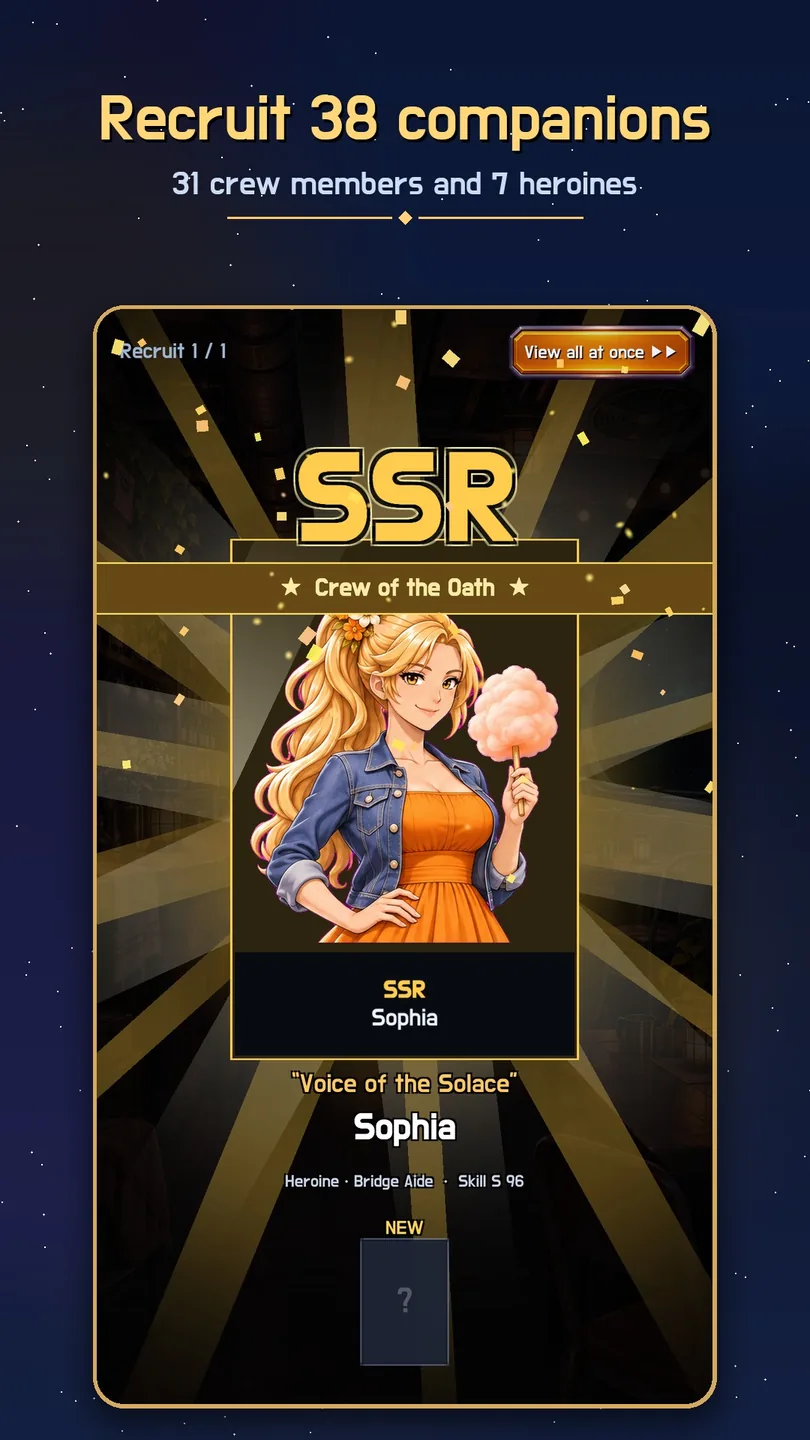
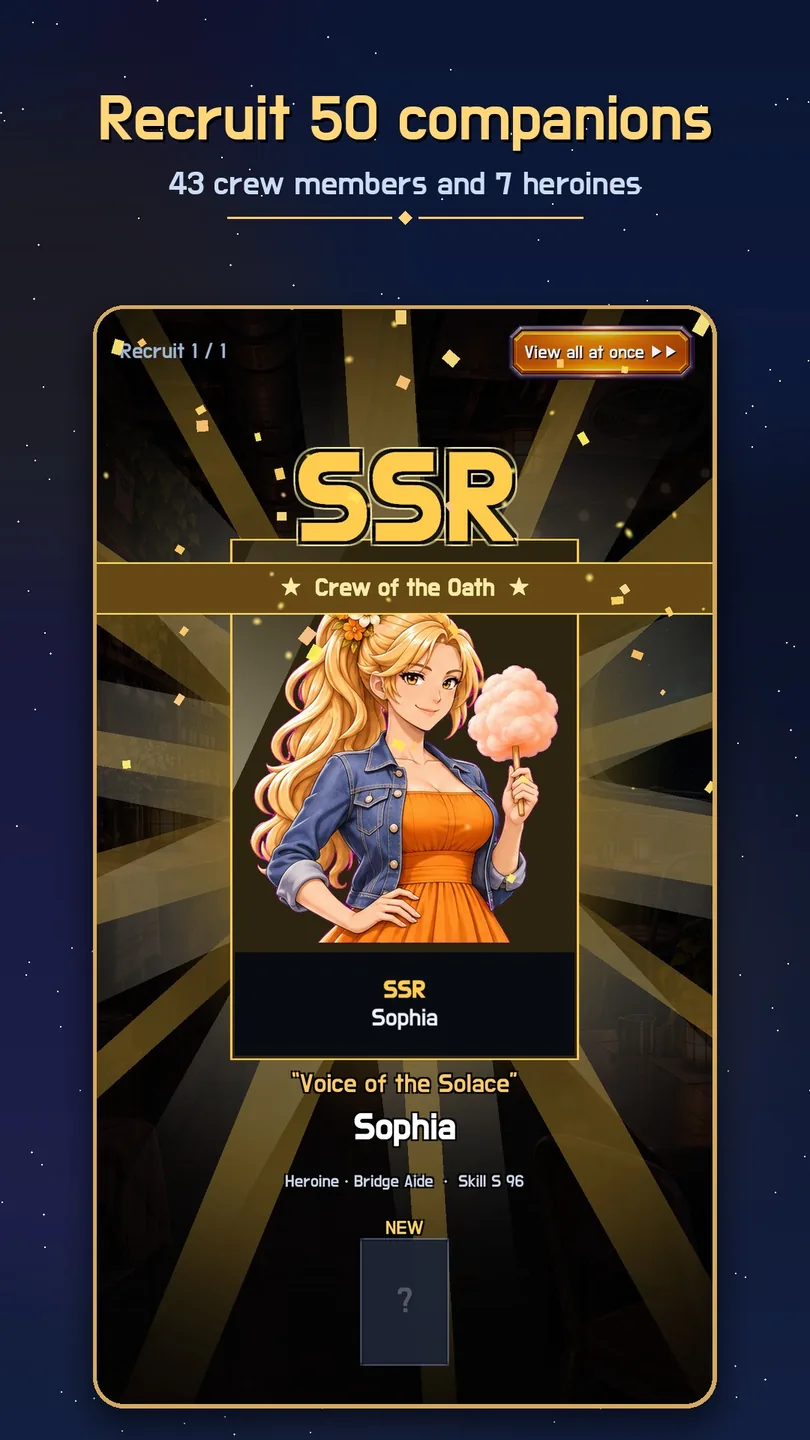
Exiles: 50 companions (43 crew + 7 heroines), cross-post seating note, new reveal screenshots
Claude-Session: https://claude.ai/code/session_01Rt15XjpkMisQxr4saGc18C

Changed region(s): [[0.1235, 0.0625, 0.8951, 0.1562]]

diff --git a/games/exiles/index.html b/games/exiles/index.html
@@ -20,26 +20,26 @@
 .exiles-page .bloom-icon{background:#0d1426;box-shadow:0 8px 25px #0008}
 </style></head><body class="bloom-page exiles-page four-languages multilingual-home" data-site-kind="game"><a class="skip" href="#main"><span data-locale="ko">본문으로 건너뛰기</span><span data-locale="en">Skip to content</span><span data-locale="ja">本文へスキップ</span><span data-locale="zh-TW">跳到主要內容</span></a><header class="site-header"><div class="wrap top"><a class="brand" data-site-to="home" href="/"><img src="/assets/ehny_horizontal_on_dark.png" alt="EHNY Games" width="170" height="50"></a><nav aria-label="Main navigation"><a class="games-nav" data-site-to="games" href="/#games" aria-label="게임"><svg aria-hidden="true" viewBox="0 0 24 24" width="21" height="21" fill="none" stroke="currentColor" stroke-width="1.7" stroke-linecap="round" stroke-linejoin="round"><path d="M7 6h10c3 0 5 4 5 8 0 4-3 5-6 1H8c-3 4-6 3-6-1 0-4 2-8 5-8Zm0 3v5m-2.5-2.5h5m6 0h.01m3-2h.01"/></svg><span data-site-label="games">게임</span></a><a class="support-nav" data-site-to="support" href="/support/" aria-label="지원"><svg aria-hidden="true" viewBox="0 0 24 24" width="21" height="21" fill="none" stroke="currentColor" stroke-width="1.7" stroke-linecap="round" stroke-linejoin="round"><path d="M4 13v-2a8 8 0 0 1 16 0v2m0 2v1a4 4 0 0 1-4 4h-3M4 12h3v6H5a2 2 0 0 1-2-2v-3a1 1 0 0 1 1-1Zm16 0h-3v6h2a2 2 0 0 0 2-2v-3a1 1 0 0 0-1-1Z"/></svg><span data-site-label="support">지원</span></a><span class="language-toggle four-language-links" role="group" aria-label="Language"><a class="language" data-site-lang="ko" data-lang="ko" href="/games/exiles/?lang=ko" lang="ko" hreflang="ko" aria-label="한국어" aria-current="page"><span class="lang-long">한국어</span><span class="lang-short" aria-hidden="true">KR</span></a><a class="language" data-site-lang="en" data-lang="en" href="/games/exiles/?lang=en" lang="en" hreflang="en" aria-label="English"><span class="lang-long">English</span><span class="lang-short" aria-hidden="true">EN</span></a><a class="language" data-site-lang="ja" data-lang="ja" href="/games/exiles/?lang=ja" lang="ja" hreflang="ja" aria-label="日本語"><span class="lang-long">日本語</span><span class="lang-short" aria-hidden="true">JP</span></a><a class="language" data-site-lang="zh-TW" data-lang="zh-TW" href="/games/exiles/?lang=zh-TW" lang="zh-Hant-TW" hreflang="zh-TW" aria-label="繁體中文"><span class="lang-long">繁體中文</span><span class="lang-short" aria-hidden="true">繁中</span></a></span></nav></div></header><main id="main"><div data-locale="ko" lang="ko"><div class="bloom-banner"><img src="/games/exiles/img/hero_ko.jpg" alt="별의 망명자들" width="1920" height="820" fetchpriority="high"></div><div class="wrap bloom-intro"><img class="bloom-icon" src="/games/exiles/img/icon.png" alt="별의 망명자들 아이콘" width="100" height="100"><div><span class="bloom-status">비공개 테스트 중 · 곧 출시</span><h1>별의 망명자들</h1><p class="bloom-subtitle">함대 디펜스 · 연애 시뮬레이션 · RPG · 1만 2천 명을 태운 마지막 이민선. 함대를 이끌고 추격을 뿌리쳐 새 별에 닿아라.</p></div></div>
 <section class="wrap bloom-section bloom-story"><div><p class="bloom-eyebrow">01 / THE STORY</p><h2>이야기</h2><p>고향을 잃은 1만 2천 명. 그들을 태운 배는 단 한 척, 이민모함 솔라스.</p><p>정화 함대는 이 배를 끝까지 쫓아옵니다. 함장인 당신은 모함과 함대를 이끌고, 시민들이 살아갈 새 별을 찾아 항해를 떠납니다.</p></div><figure><img src="/games/exiles/img/story_crew.jpg" alt="엔딩 직전 함교에 모인 일곱 히로인" width="720" height="1280" loading="lazy"></figure></section>
-<section class="wrap bloom-section"><p class="bloom-eyebrow">02 / HOW TO PLAY</p><h2>이런 게임이에요</h2><div class="bloom-feature-grid"><article class="bloom-feature"><p class="feature-heading"><span class="feature-symbol" aria-hidden="true">⚔</span><strong>쉴 틈 없는 함대 전투</strong></p><p>사방에서 몰려오는 적 함대를 모함의 무장과 전투기·구축함·기동 프레임 편대로 막아 내세요. 화면을 가득 메우는 미사일과 레이저 사이에서 주포 한 방이 전세를 뒤집습니다.</p></article><article class="bloom-feature"><p class="feature-heading"><span class="feature-symbol" aria-hidden="true">🗺</span><strong>고른 길이 다른 이야기가 됩니다</strong></p><p>9장, 200판이 넘는 전투. 우주 지도에서 길이 네 갈래로 갈라지고, 선택에 따라 만나는 사람도, 맞서는 적도, 이야기의 끝도 달라집니다.</p></article><article class="bloom-feature"><p class="feature-heading"><span class="feature-symbol" aria-hidden="true">👥</span><strong>함께 갈 사람 38명</strong></p><p>주점 &#x27;마지막 닻&#x27;에서 승무원 31명과 히로인 7명을 영입하세요. 같은 사람을 다시 만날수록 계약이 깊어지고(R → SR → SSR), 보직마다 배치한 사람에 따라 함대의 힘이 달라집니다.</p></article><article class="bloom-feature"><p class="feature-heading"><span class="feature-symbol" aria-hidden="true">💗</span><strong>함선 안에서 피어나는 이야기</strong></p><p>전투가 끝나면 함내를 걸어 보세요. 거주 돔, 수경 농장, 정비창… 누군가와 마주친 대화가 마음의 거리를 바꿉니다. 일곱 히로인과 숨은 만남, 휴양 행성의 짧은 휴식, 모아 보는 일러스트와 의상.</p></article><article class="bloom-feature"><p class="feature-heading"><span class="feature-symbol" aria-hidden="true">🎙</span><strong>목소리와 음악</strong></p><p>주요 장면은 한국어·영어·일본어·중국어 음성으로. 오케스트라 사운드트랙과 주제가 세 곡이 항해를 함께하고, 들은 곡은 추억 앨범에서 다시 들을 수 있어요.</p></article><article class="bloom-feature"><p class="feature-heading"><span class="feature-symbol" aria-hidden="true">🏆</span><strong>끝나지 않는 도전</strong></p><p>무한 항해(버틴 시간 순위), 옛 오락실 감성의 극악 슈팅 6판, 엔딩 뒤 키운 함대를 그대로 들고 가는 회차까지.</p></article></div></section>
+<section class="wrap bloom-section"><p class="bloom-eyebrow">02 / HOW TO PLAY</p><h2>이런 게임이에요</h2><div class="bloom-feature-grid"><article class="bloom-feature"><p class="feature-heading"><span class="feature-symbol" aria-hidden="true">⚔</span><strong>쉴 틈 없는 함대 전투</strong></p><p>사방에서 몰려오는 적 함대를 모함의 무장과 전투기·구축함·기동 프레임 편대로 막아 내세요. 화면을 가득 메우는 미사일과 레이저 사이에서 주포 한 방이 전세를 뒤집습니다.</p></article><article class="bloom-feature"><p class="feature-heading"><span class="feature-symbol" aria-hidden="true">🗺</span><strong>고른 길이 다른 이야기가 됩니다</strong></p><p>9장, 200판이 넘는 전투. 우주 지도에서 길이 네 갈래로 갈라지고, 선택에 따라 만나는 사람도, 맞서는 적도, 이야기의 끝도 달라집니다.</p></article><article class="bloom-feature"><p class="feature-heading"><span class="feature-symbol" aria-hidden="true">👥</span><strong>함께 갈 사람 50명</strong></p><p>주점 &#x27;마지막 닻&#x27;에서 승무원 43명과 히로인 7명을 영입하세요. 같은 사람을 다시 만날수록 계약이 깊어지고(R → SR → SSR), 누구를 어느 보직에 앉히느냐(다른 계열 보직도 가능)에 따라 함대의 힘이 달라집니다.</p></article><article class="bloom-feature"><p class="feature-heading"><span class="feature-symbol" aria-hidden="true">💗</span><strong>함선 안에서 피어나는 이야기</strong></p><p>전투가 끝나면 함내를 걸어 보세요. 거주 돔, 수경 농장, 정비창… 누군가와 마주친 대화가 마음의 거리를 바꿉니다. 일곱 히로인과 숨은 만남, 휴양 행성의 짧은 휴식, 모아 보는 일러스트와 의상.</p></article><article class="bloom-feature"><p class="feature-heading"><span class="feature-symbol" aria-hidden="true">🎙</span><strong>목소리와 음악</strong></p><p>주요 장면은 한국어·영어·일본어·중국어 음성으로. 오케스트라 사운드트랙과 주제가 세 곡이 항해를 함께하고, 들은 곡은 추억 앨범에서 다시 들을 수 있어요.</p></article><article class="bloom-feature"><p class="feature-heading"><span class="feature-symbol" aria-hidden="true">🏆</span><strong>끝나지 않는 도전</strong></p><p>무한 항해(버틴 시간 순위), 옛 오락실 감성의 극악 슈팅 6판, 엔딩 뒤 키운 함대를 그대로 들고 가는 회차까지.</p></article></div></section>
 <section class="wrap bloom-section"><div class="bloom-family"><p class="bloom-eyebrow">03 / FAIR PLAY</p><h2>편하게 즐길 수 있게</h2><ul><li>광고가 없어요.</li><li>회원가입 없이 바로 시작해요. 이름·이메일 같은 개인정보는 받지 않아요.</li><li>뽑기 확률은 게임 안 주점 → 확률 보기에서 언제든 확인할 수 있어요.</li><li>지면 다음 도전부터 적이 조금씩 약해지는 재도전 보정이 있어요.</li><li>15세 이용가</li></ul></div></section>
-<section class="wrap bloom-section"><p class="bloom-eyebrow">04 / GALLERY</p><h2>게임 갤러리</h2><p class="bloom-gallery-note">실제 게임 화면 · 홍보 문구를 더한 스토어 이미지(이 언어 화면).</p><div class="bloom-gallery promo-gallery"><figure><a href="/games/exiles/img/screenshot_ko_1.webp"><img src="/games/exiles/img/screenshot_ko_1.webp" alt="거대 기함과의 결전 — 주포 한 방으로 전세를 뒤집어라" loading="lazy" width="810" height="1440"></a></figure><figure><a href="/games/exiles/img/screenshot_ko_2.webp"><img src="/games/exiles/img/screenshot_ko_2.webp" alt="쉴 틈 없는 함대 전투 — 미사일과 레이저가 화면을 덮는다" loading="lazy" width="810" height="1440"></a></figure><figure><a href="/games/exiles/img/screenshot_ko_3.webp?v=38"><img src="/games/exiles/img/screenshot_ko_3.webp?v=38" alt="함께 갈 27명을 영입하라 — 승무원 20명 · 히로인 7명" loading="lazy" width="810" height="1440"></a></figure><figure><a href="/games/exiles/img/screenshot_ko_4.webp"><img src="/games/exiles/img/screenshot_ko_4.webp" alt="함선 안에서 피어나는 이야기 — 숨은 만남과 일곱 명의 히로인" loading="lazy" width="810" height="1440"></a></figure><figure><a href="/games/exiles/img/screenshot_ko_5.webp"><img src="/games/exiles/img/screenshot_ko_5.webp" alt="네 갈래로 갈라지는 항로 — 당신의 선택이 이야기를 바꾼다" loading="lazy" width="810" height="1440"></a></figure><figure><a href="/games/exiles/img/screenshot_ko_6.webp"><img src="/games/exiles/img/screenshot_ko_6.webp" alt="전투기 한 대로 적진 돌파 — 옛 오락실 감성의 슈팅 판" loading="lazy" width="810" height="1440"></a></figure><figure><a href="/games/exiles/img/screenshot_ko_7.webp"><img src="/games/exiles/img/screenshot_ko_7.webp" alt="불시착한 행성의 전술 전투 — 칸을 옮기며 함선을 지켜라" loading="lazy" width="810" height="1440"></a></figure><figure><a href="/games/exiles/img/screenshot_ko_8.webp"><img src="/games/exiles/img/screenshot_ko_8.webp" alt="1만 2천 명을 태운 마지막 이민선 — 함내를 키우고 시민을 지켜라" loading="lazy" width="810" height="1440"></a></figure></div></section>
+<section class="wrap bloom-section"><p class="bloom-eyebrow">04 / GALLERY</p><h2>게임 갤러리</h2><p class="bloom-gallery-note">실제 게임 화면 · 홍보 문구를 더한 스토어 이미지(이 언어 화면).</p><div class="bloom-gallery promo-gallery"><figure><a href="/games/exiles/img/screenshot_ko_1.webp"><img src="/games/exiles/img/screenshot_ko_1.webp" alt="거대 기함과의 결전 — 주포 한 방으로 전세를 뒤집어라" loading="lazy" width="810" height="1440"></a></figure><figure><a href="/games/exiles/img/screenshot_ko_2.webp"><img src="/games/exiles/img/screenshot_ko_2.webp" alt="쉴 틈 없는 함대 전투 — 미사일과 레이저가 화면을 덮는다" loading="lazy" width="810" height="1440"></a></figure><figure><a href="/games/exiles/img/screenshot_ko_3.webp?v=50"><img src="/games/exiles/img/screenshot_ko_3.webp?v=50" alt="함께 갈 50명을 영입하라 — 승무원 43명 · 히로인 7명" loading="lazy" width="810" height="1440"></a></figure><figure><a href="/games/exiles/img/screenshot_ko_4.webp"><img src="/games/exiles/img/screenshot_ko_4.webp" alt="함선 안에서 피어나는 이야기 — 숨은 만남과 일곱 명의 히로인" loading="lazy" width="810" height="1440"></a></figure><figure><a href="/games/exiles/img/screenshot_ko_5.webp"><img src="/games/exiles/img/screenshot_ko_5.webp" alt="네 갈래로 갈라지는 항로 — 당신의 선택이 이야기를 바꾼다" loading="lazy" width="810" height="1440"></a></figure><figure><a href="/games/exiles/img/screenshot_ko_6.webp"><img src="/games/exiles/img/screenshot_ko_6.webp" alt="전투기 한 대로 적진 돌파 — 옛 오락실 감성의 슈팅 판" loading="lazy" width="810" height="1440"></a></figure><figure><a href="/games/exiles/img/screenshot_ko_7.webp"><img src="/games/exiles/img/screenshot_ko_7.webp" alt="불시착한 행성의 전술 전투 — 칸을 옮기며 함선을 지켜라" loading="lazy" width="810" height="1440"></a></figure><figure><a href="/games/exiles/img/screenshot_ko_8.webp"><img src="/games/exiles/img/screenshot_ko_8.webp" alt="1만 2천 명을 태운 마지막 이민선 — 함내를 키우고 시민을 지켜라" loading="lazy" width="810" height="1440"></a></figure></div></section>
 <section class="wrap bloom-section"><div class="bloom-cta"><img class="bloom-icon" src="/games/exiles/img/icon.png" alt="별의 망명자들 아이콘" width="100" height="100" loading="lazy" style="margin:0 auto 22px"><span class="bloom-status">비공개 테스트 중 · 곧 출시</span><h2 style="margin-top:20px">별의 망명자들</h2><button class="bloom-play" type="button" disabled aria-disabled="true" data-play-url=""><svg width="25" height="28" viewBox="0 0 25 28" aria-hidden="true" fill="currentColor"><path d="M2 1 24 14 2 27Z"/></svg><span><small>곧 출시</small>Google Play</span></button><p class="info">Android (Google Play) · 한국어 / English / 日本語 / 繁體中文</p><p class="info">무료로 즐기기 · 앱 내 구매 있음(퀘이사·패키지)</p><div class="bloom-links"><a href="/privacy/exiles/?lang=ko">개인정보처리방침</a><a href="mailto:contact@ehnygames.com">문의 · contact@ehnygames.com</a></div></div></section></div>
 <div data-locale="en" lang="en"><div class="bloom-banner"><img src="/games/exiles/img/hero_en.jpg" alt="Twelve Thousand Lights" width="1920" height="820" fetchpriority="high"></div><div class="wrap bloom-intro"><img class="bloom-icon" src="/games/exiles/img/icon.png" alt="Twelve Thousand Lights icon" width="100" height="100"><div><span class="bloom-status">In closed testing · Coming soon</span><h1>Twelve Thousand Lights</h1><p class="bloom-subtitle">Fleet defense · Romance sim · RPG · 12,000 refugees. One last ship. Lead the fleet, outrun the purge, find a home.</p></div></div>
 <section class="wrap bloom-section bloom-story"><div><p class="bloom-eyebrow">01 / THE STORY</p><h2>The Story</h2><p>Twelve thousand people lost their home. Only one ship carries them now: the emigrant carrier Solace.</p><p>The Purification Fleet will chase it to the very end. As captain, you lead the carrier and its fleet on a voyage to find a new world where they can live.</p></div><figure><img src="/games/exiles/img/story_crew.jpg" alt="Seven heroines gathered on the bridge before the ending" width="720" height="1280" loading="lazy"></figure></section>
-<section class="wrap bloom-section"><p class="bloom-eyebrow">02 / HOW TO PLAY</p><h2>What You&#x27;ll Do</h2><div class="bloom-feature-grid"><article class="bloom-feature"><p class="feature-heading"><span class="feature-symbol" aria-hidden="true">⚔</span><strong>Non-stop fleet battles</strong></p><p>Hold back enemy fleets pouring in from every side with your carrier&#x27;s weapons and squadrons of fighters, destroyers and combat frames. Amid screens full of missiles and lasers, one main-cannon shot can turn the tide.</p></article><article class="bloom-feature"><p class="feature-heading"><span class="feature-symbol" aria-hidden="true">🗺</span><strong>Your path becomes your story</strong></p><p>Nine chapters and more than 200 battles. The route splits four ways on the star map, and your choices change who you meet, who you fight, and how the story ends.</p></article><article class="bloom-feature"><p class="feature-heading"><span class="feature-symbol" aria-hidden="true">👥</span><strong>38 companions</strong></p><p>Recruit 31 crew members and 7 heroines at the Last Anchor tavern. Meet the same person again to deepen your bond (R → SR → SSR) — and who you assign to each post visibly changes your fleet.</p></article><article class="bloom-feature"><p class="feature-heading"><span class="feature-symbol" aria-hidden="true">💗</span><strong>Stories that bloom aboard</strong></p><p>After each battle, walk the ship — the habitat dome, the hydroponic farm, the hangar. A chance conversation changes how close you become. Seven heroines, hidden encounters, resort-planet breaks, and illustrations and outfits to collect.</p></article><article class="bloom-feature"><p class="feature-heading"><span class="feature-symbol" aria-hidden="true">🎙</span><strong>Voices and music</strong></p><p>Key scenes are voiced in Korean, English, Japanese and Chinese. An orchestral soundtrack and three theme songs follow your voyage, and tracks you&#x27;ve heard can be replayed in the Memory Album.</p></article><article class="bloom-feature"><p class="feature-heading"><span class="feature-symbol" aria-hidden="true">🏆</span><strong>Challenges that never end</strong></p><p>Endless Voyage leaderboards, six brutal old-school arcade shooter stages, and New Game+ that carries your fleet into stronger battles.</p></article></div></section>
+<section class="wrap bloom-section"><p class="bloom-eyebrow">02 / HOW TO PLAY</p><h2>What You&#x27;ll Do</h2><div class="bloom-feature-grid"><article class="bloom-feature"><p class="feature-heading"><span class="feature-symbol" aria-hidden="true">⚔</span><strong>Non-stop fleet battles</strong></p><p>Hold back enemy fleets pouring in from every side with your carrier&#x27;s weapons and squadrons of fighters, destroyers and combat frames. Amid screens full of missiles and lasers, one main-cannon shot can turn the tide.</p></article><article class="bloom-feature"><p class="feature-heading"><span class="feature-symbol" aria-hidden="true">🗺</span><strong>Your path becomes your story</strong></p><p>Nine chapters and more than 200 battles. The route splits four ways on the star map, and your choices change who you meet, who you fight, and how the story ends.</p></article><article class="bloom-feature"><p class="feature-heading"><span class="feature-symbol" aria-hidden="true">👥</span><strong>50 companions</strong></p><p>Recruit 43 crew members and 7 heroines at the Last Anchor tavern. Meet the same person again to deepen your bond (R → SR → SSR) — and who you assign to each post — even outside their specialty — visibly changes your fleet.</p></article><article class="bloom-feature"><p class="feature-heading"><span class="feature-symbol" aria-hidden="true">💗</span><strong>Stories that bloom aboard</strong></p><p>After each battle, walk the ship — the habitat dome, the hydroponic farm, the hangar. A chance conversation changes how close you become. Seven heroines, hidden encounters, resort-planet breaks, and illustrations and outfits to collect.</p></article><article class="bloom-feature"><p class="feature-heading"><span class="feature-symbol" aria-hidden="true">🎙</span><strong>Voices and music</strong></p><p>Key scenes are voiced in Korean, English, Japanese and Chinese. An orchestral soundtrack and three theme songs follow your voyage, and tracks you&#x27;ve heard can be replayed in the Memory Album.</p></article><article class="bloom-feature"><p class="feature-heading"><span class="feature-symbol" aria-hidden="true">🏆</span><strong>Challenges that never end</strong></p><p>Endless Voyage leaderboards, six brutal old-school arcade shooter stages, and New Game+ that carries your fleet into stronger battles.</p></article></div></section>
 <section class="wrap bloom-section"><div class="bloom-family"><p class="bloom-eyebrow">03 / FAIR PLAY</p><h2>Play your way</h2><ul><li>No ads.</li><li>No sign-up — start right away. We never ask for your name or email.</li><li>Recruitment rates are always shown in-game at the Tavern → View Rates.</li><li>Lose a stage and the next attempt gets a little easier (retry assist).</li><li>Rated for ages 15+ in Korea.</li></ul></div></section>
-<section class="wrap bloom-section"><p class="bloom-eyebrow">04 / GALLERY</p><h2>Game Gallery</h2><p class="bloom-gallery-note">Actual gameplay · Store images with promotional captions (English interface).</p><div class="bloom-gallery promo-gallery"><figure><a href="/games/exiles/img/screenshot_en_1.webp"><img src="/games/exiles/img/screenshot_en_1.webp" alt="Face the giant flagship — One main-cannon shot can turn the tide" loading="lazy" width="810" height="1440"></a></figure><figure><a href="/games/exiles/img/screenshot_en_2.webp"><img src="/games/exiles/img/screenshot_en_2.webp" alt="Non-stop fleet battles — Missiles and lasers fill the sky" loading="lazy" width="810" height="1440"></a></figure><figure><a href="/games/exiles/img/screenshot_en_3.webp?v=38"><img src="/games/exiles/img/screenshot_en_3.webp?v=38" alt="Recruit 27 companions — 20 crew members and 7 heroines" loading="lazy" width="810" height="1440"></a></figure><figure><a href="/games/exiles/img/screenshot_en_4.webp"><img src="/games/exiles/img/screenshot_en_4.webp" alt="Stories that bloom aboard — Hidden encounters with seven heroines" loading="lazy" width="810" height="1440"></a></figure><figure><a href="/games/exiles/img/screenshot_en_5.webp"><img src="/games/exiles/img/screenshot_en_5.webp" alt="A route that splits four ways — Your choices change the story" loading="lazy" width="810" height="1440"></a></figure><figure><a href="/games/exiles/img/screenshot_en_6.webp"><img src="/games/exiles/img/screenshot_en_6.webp" alt="Break through in a lone fighter — Old-school arcade shooter stages" loading="lazy" width="810" height="1440"></a></figure><figure><a href="/games/exiles/img/screenshot_en_7.webp"><img src="/games/exiles/img/screenshot_en_7.webp" alt="Tactical battles on a crashed world — Move square by square to protect the ship" loading="lazy" width="810" height="1440"></a></figure><figure><a href="/games/exiles/img/screenshot_en_8.webp"><img src="/games/exiles/img/screenshot_en_8.webp" alt="One last ship, 12,000 lives — Grow the ship and protect its people" loading="lazy" width="810" height="1440"></a></figure></div></section>
+<section class="wrap bloom-section"><p class="bloom-eyebrow">04 / GALLERY</p><h2>Game Gallery</h2><p class="bloom-gallery-note">Actual gameplay · Store images with promotional captions (English interface).</p><div class="bloom-gallery promo-gallery"><figure><a href="/games/exiles/img/screenshot_en_1.webp"><img src="/games/exiles/img/screenshot_en_1.webp" alt="Face the giant flagship — One main-cannon shot can turn the tide" loading="lazy" width="810" height="1440"></a></figure><figure><a href="/games/exiles/img/screenshot_en_2.webp"><img src="/games/exiles/img/screenshot_en_2.webp" alt="Non-stop fleet battles — Missiles and lasers fill the sky" loading="lazy" width="810" height="1440"></a></figure><figure><a href="/games/exiles/img/screenshot_en_3.webp?v=50"><img src="/games/exiles/img/screenshot_en_3.webp?v=50" alt="Recruit 50 companions — 43 crew members and 7 heroines" loading="lazy" width="810" height="1440"></a></figure><figure><a href="/games/exiles/img/screenshot_en_4.webp"><img src="/games/exiles/img/screenshot_en_4.webp" alt="Stories that bloom aboard — Hidden encounters with seven heroines" loading="lazy" width="810" height="1440"></a></figure><figure><a href="/games/exiles/img/screenshot_en_5.webp"><img src="/games/exiles/img/screenshot_en_5.webp" alt="A route that splits four ways — Your choices change the story" loading="lazy" width="810" height="1440"></a></figure><figure><a href="/games/exiles/img/screenshot_en_6.webp"><img src="/games/exiles/img/screenshot_en_6.webp" alt="Break through in a lone fighter — Old-school arcade shooter stages" loading="lazy" width="810" height="1440"></a></figure><figure><a href="/games/exiles/img/screenshot_en_7.webp"><img src="/games/exiles/img/screenshot_en_7.webp" alt="Tactical battles on a crashed world — Move square by square to protect the ship" loading="lazy" width="810" height="1440"></a></figure><figure><a href="/games/exiles/img/screenshot_en_8.webp"><img src="/games/exiles/img/screenshot_en_8.webp" alt="One last ship, 12,000 lives — Grow the ship and protect its people" loading="lazy" width="810" height="1440"></a></figure></div></section>
 <section class="wrap bloom-section"><div class="bloom-cta"><img class="bloom-icon" src="/games/exiles/img/icon.png" alt="Twelve Thousand Lights icon" width="100" height="100" loading="lazy" style="margin:0 auto 22px"><span class="bloom-status">In closed testing · Coming soon</span><h2 style="margin-top:20px">Twelve Thousand Lights</h2><button class="bloom-play" type="button" disabled aria-disabled="true" data-play-url=""><svg width="25" height="28" viewBox="0 0 25 28" aria-hidden="true" fill="currentColor"><path d="M2 1 24 14 2 27Z"/></svg><span><small>Coming soon</small>Google Play</span></button><p class="info">Android (Google Play) · 한국어 / English / 日本語 / 繁體中文</p><p class="info">Free to play · In-app purchases (Quasars, packs)</p><div class="bloom-links"><a href="/privacy/exiles/?lang=en">Privacy Policy</a><a href="mailto:contact@ehnygames.com">Contact · contact@ehnygames.com</a></div></div></section></div>
 <div data-locale="ja" lang="ja"><div class="bloom-banner"><img src="/games/exiles/img/hero_ja.jpg" alt="星の亡命者たち" width="1920" height="820" fetchpriority="high"></div><div class="wrap bloom-intro"><img class="bloom-icon" src="/games/exiles/img/icon.png" alt="星の亡命者たちのアイコン" width="100" height="100"><div><span class="bloom-status">クローズドテスト中・まもなく配信</span><h1>星の亡命者たち</h1><p class="bloom-subtitle">艦隊ディフェンス・恋愛シミュレーション・RPG · 1万2千人を乗せた最後の移民船。艦隊を率いて追撃を振り切り、新たな星を目指せ。</p></div></div>
 <section class="wrap bloom-section bloom-story"><div><p class="bloom-eyebrow">01 / THE STORY</p><h2>ストーリー</h2><p>故郷を失った1万2千人。彼らを乗せた船は、たった一隻 ── 移民母艦ソラス。</p><p>浄化艦隊はこの船をどこまでも追ってきます。艦長であるあなたは母艦と艦隊を率い、市民が暮らせる新たな星を探す航海に出ます。</p></div><figure><img src="/games/exiles/img/story_crew.jpg" alt="エンディング直前、ブリッジに集まった7人のヒロイン" width="720" height="1280" loading="lazy"></figure></section>
-<section class="wrap bloom-section"><p class="bloom-eyebrow">02 / HOW TO PLAY</p><h2>こんなゲームです</h2><div class="bloom-feature-grid"><article class="bloom-feature"><p class="feature-heading"><span class="feature-symbol" aria-hidden="true">⚔</span><strong>息つく暇もない艦隊戦</strong></p><p>四方から押し寄せる敵艦隊を、母艦の武装と戦闘機・駆逐艦・機動フレーム編隊で食い止めましょう。画面を埋め尽くすミサイルとレーザーの中、主砲の一撃が戦況をひっくり返します。</p></article><article class="bloom-feature"><p class="feature-heading"><span class="feature-symbol" aria-hidden="true">🗺</span><strong>選んだ道が、違う物語になる</strong></p><p>全9章、200を超える戦闘。宇宙マップで航路は四つに分かれ、選択によって出会う人も、立ち向かう敵も、物語の結末も変わります。</p></article><article class="bloom-feature"><p class="feature-heading"><span class="feature-symbol" aria-hidden="true">👥</span><strong>共に行く38人</strong></p><p>酒場「最後の錨」で乗組員31人とヒロイン7人をスカウト。同じ人と出会うほど契約が深まり(R → SR → SSR)、配属した人によって艦隊の力が変わります。</p></article><article class="bloom-feature"><p class="feature-heading"><span class="feature-symbol" aria-hidden="true">💗</span><strong>艦内で芽生える物語</strong></p><p>戦いの後は艦内を歩いてみましょう。居住ドーム、水耕農場、整備工場…ふとした会話が心の距離を変えます。7人のヒロイン、隠れた出会い、リゾート惑星でのひととき、集めるイラストと衣装。</p></article><article class="bloom-feature"><p class="feature-heading"><span class="feature-symbol" aria-hidden="true">🎙</span><strong>ボイスと音楽</strong></p><p>主要シーンは韓国語・英語・日本語・中国語ボイス。オーケストラのサウンドトラックと3曲の主題歌が航海を彩り、聴いた曲は思い出アルバムで聴き直せます。</p></article><article class="bloom-feature"><p class="feature-heading"><span class="feature-symbol" aria-hidden="true">🏆</span><strong>終わらない挑戦</strong></p><p>無限航海のランキング、懐かしのアーケード風・超高難度シューティング全6ステージ、育てた艦隊で挑む周回プレイ。</p></article></div></section>
+<section class="wrap bloom-section"><p class="bloom-eyebrow">02 / HOW TO PLAY</p><h2>こんなゲームです</h2><div class="bloom-feature-grid"><article class="bloom-feature"><p class="feature-heading"><span class="feature-symbol" aria-hidden="true">⚔</span><strong>息つく暇もない艦隊戦</strong></p><p>四方から押し寄せる敵艦隊を、母艦の武装と戦闘機・駆逐艦・機動フレーム編隊で食い止めましょう。画面を埋め尽くすミサイルとレーザーの中、主砲の一撃が戦況をひっくり返します。</p></article><article class="bloom-feature"><p class="feature-heading"><span class="feature-symbol" aria-hidden="true">🗺</span><strong>選んだ道が、違う物語になる</strong></p><p>全9章、200を超える戦闘。宇宙マップで航路は四つに分かれ、選択によって出会う人も、立ち向かう敵も、物語の結末も変わります。</p></article><article class="bloom-feature"><p class="feature-heading"><span class="feature-symbol" aria-hidden="true">👥</span><strong>共に行く50人</strong></p><p>酒場「最後の錨」で乗組員43人とヒロイン7人をスカウト。同じ人と出会うほど契約が深まり(R → SR → SSR)、誰をどの部署に就けるか(専門外の部署も可)で艦隊の力が変わります。</p></article><article class="bloom-feature"><p class="feature-heading"><span class="feature-symbol" aria-hidden="true">💗</span><strong>艦内で芽生える物語</strong></p><p>戦いの後は艦内を歩いてみましょう。居住ドーム、水耕農場、整備工場…ふとした会話が心の距離を変えます。7人のヒロイン、隠れた出会い、リゾート惑星でのひととき、集めるイラストと衣装。</p></article><article class="bloom-feature"><p class="feature-heading"><span class="feature-symbol" aria-hidden="true">🎙</span><strong>ボイスと音楽</strong></p><p>主要シーンは韓国語・英語・日本語・中国語ボイス。オーケストラのサウンドトラックと3曲の主題歌が航海を彩り、聴いた曲は思い出アルバムで聴き直せます。</p></article><article class="bloom-feature"><p class="feature-heading"><span class="feature-symbol" aria-hidden="true">🏆</span><strong>終わらない挑戦</strong></p><p>無限航海のランキング、懐かしのアーケード風・超高難度シューティング全6ステージ、育てた艦隊で挑む周回プレイ。</p></article></div></section>
 <section class="wrap bloom-section"><div class="bloom-family"><p class="bloom-eyebrow">03 / FAIR PLAY</p><h2>安心して遊べるように</h2><ul><li>広告はありません。</li><li>会員登録なしですぐに始められます。名前やメールアドレスはお聞きしません。</li><li>スカウトの確率はゲーム内の酒場 → 確率を見るでいつでも確認できます。</li><li>負けると次の挑戦から敵が少しずつ弱くなる再挑戦補正があります。</li><li>韓国の年齢区分は15歳以上です。</li></ul></div></section>
-<section class="wrap bloom-section"><p class="bloom-eyebrow">04 / GALLERY</p><h2>ゲームギャラリー</h2><p class="bloom-gallery-note">実際のゲーム画面・紹介文を添えたストア画像(日本語画面)。</p><div class="bloom-gallery promo-gallery"><figure><a href="/games/exiles/img/screenshot_ja_1.webp"><img src="/games/exiles/img/screenshot_ja_1.webp" alt="巨大旗艦との決戦 — 主砲の一撃で戦況を覆せ" loading="lazy" width="810" height="1440"></a></figure><figure><a href="/games/exiles/img/screenshot_ja_2.webp"><img src="/games/exiles/img/screenshot_ja_2.webp" alt="息つく暇もない艦隊戦 — ミサイルとレーザーが空を埋め尽くす" loading="lazy" width="810" height="1440"></a></figure><figure><a href="/games/exiles/img/screenshot_ja_3.webp?v=38"><img src="/games/exiles/img/screenshot_ja_3.webp?v=38" alt="共に行く27人をスカウト — 乗組員20人・ヒロイン7人" loading="lazy" width="810" height="1440"></a></figure><figure><a href="/games/exiles/img/screenshot_ja_4.webp"><img src="/games/exiles/img/screenshot_ja_4.webp" alt="艦内で芽生える物語 — 隠れた出会いと7人のヒロイン" loading="lazy" width="810" height="1440"></a></figure><figure><a href="/games/exiles/img/screenshot_ja_5.webp"><img src="/games/exiles/img/screenshot_ja_5.webp" alt="四つに分かれる航路 — あなたの選択が物語を変える" loading="lazy" width="810" height="1440"></a></figure><figure><a href="/games/exiles/img/screenshot_ja_6.webp"><img src="/games/exiles/img/screenshot_ja_6.webp" alt="戦闘機一機で敵陣突破 — 懐かしのアーケード風シューティング" loading="lazy" width="810" height="1440"></a></figure><figure><a href="/games/exiles/img/screenshot_ja_7.webp"><img src="/games/exiles/img/screenshot_ja_7.webp" alt="不時着した惑星での戦術バトル — マスを進めて艦を守れ" loading="lazy" width="810" height="1440"></a></figure><figure><a href="/games/exiles/img/screenshot_ja_8.webp"><img src="/games/exiles/img/screenshot_ja_8.webp" alt="1万2千人を乗せた最後の移民船 — 艦を育て、市民を守れ" loading="lazy" width="810" height="1440"></a></figure></div></section>
+<section class="wrap bloom-section"><p class="bloom-eyebrow">04 / GALLERY</p><h2>ゲームギャラリー</h2><p class="bloom-gallery-note">実際のゲーム画面・紹介文を添えたストア画像(日本語画面)。</p><div class="bloom-gallery promo-gallery"><figure><a href="/games/exiles/img/screenshot_ja_1.webp"><img src="/games/exiles/img/screenshot_ja_1.webp" alt="巨大旗艦との決戦 — 主砲の一撃で戦況を覆せ" loading="lazy" width="810" height="1440"></a></figure><figure><a href="/games/exiles/img/screenshot_ja_2.webp"><img src="/games/exiles/img/screenshot_ja_2.webp" alt="息つく暇もない艦隊戦 — ミサイルとレーザーが空を埋め尽くす" loading="lazy" width="810" height="1440"></a></figure><figure><a href="/games/exiles/img/screenshot_ja_3.webp?v=50"><img src="/games/exiles/img/screenshot_ja_3.webp?v=50" alt="共に行く50人をスカウト — 乗組員43人・ヒロイン7人" loading="lazy" width="810" height="1440"></a></figure><figure><a href="/games/exiles/img/screenshot_ja_4.webp"><img src="/games/exiles/img/screenshot_ja_4.webp" alt="艦内で芽生える物語 — 隠れた出会いと7人のヒロイン" loading="lazy" width="810" height="1440"></a></figure><figure><a href="/games/exiles/img/screenshot_ja_5.webp"><img src="/games/exiles/img/screenshot_ja_5.webp" alt="四つに分かれる航路 — あなたの選択が物語を変える" loading="lazy" width="810" height="1440"></a></figure><figure><a href="/games/exiles/img/screenshot_ja_6.webp"><img src="/games/exiles/img/screenshot_ja_6.webp" alt="戦闘機一機で敵陣突破 — 懐かしのアーケード風シューティング" loading="lazy" width="810" height="1440"></a></figure><figure><a href="/games/exiles/img/screenshot_ja_7.webp"><img src="/games/exiles/img/screenshot_ja_7.webp" alt="不時着した惑星での戦術バトル — マスを進めて艦を守れ" loading="lazy" width="810" height="1440"></a></figure><figure><a href="/games/exiles/img/screenshot_ja_8.webp"><img src="/games/exiles/img/screenshot_ja_8.webp" alt="1万2千人を乗せた最後の移民船 — 艦を育て、市民を守れ" loading="lazy" width="810" height="1440"></a></figure></div></section>
 <section class="wrap bloom-section"><div class="bloom-cta"><img class="bloom-icon" src="/games/exiles/img/icon.png" alt="星の亡命者たちのアイコン" width="100" height="100" loading="lazy" style="margin:0 auto 22px"><span class="bloom-status">クローズドテスト中・まもなく配信</span><h2 style="margin-top:20px">星の亡命者たち</h2><button class="bloom-play" type="button" disabled aria-disabled="true" data-play-url=""><svg width="25" height="28" viewBox="0 0 25 28" aria-hidden="true" fill="currentColor"><path d="M2 1 24 14 2 27Z"/></svg><span><small>まもなく配信</small>Google Play</span></button><p class="info">Android (Google Play) · 한국어 / English / 日本語 / 繁體中文</p><p class="info">基本プレイ無料・アプリ内課金あり(クエーサー・パック)</p><div class="bloom-links"><a href="/privacy/exiles/?lang=ja">プライバシーポリシー</a><a href="mailto:contact@ehnygames.com">お問い合わせ · contact@ehnygames.com</a></div></div></section></div>
 <div data-locale="zh-TW" lang="zh-Hant-TW"><div class="bloom-banner"><img src="/games/exiles/img/hero_zh.jpg" alt="星之流亡者" width="1920" height="820" fetchpriority="high"></div><div class="wrap bloom-intro"><img class="bloom-icon" src="/games/exiles/img/icon.png" alt="星之流亡者圖示" width="100" height="100"><div><span class="bloom-status">封閉測試中・即將推出</span><h1>星之流亡者</h1><p class="bloom-subtitle">艦隊防禦・戀愛模擬・RPG · 載著一萬兩千人的最後一艘移民船。率領艦隊甩開追擊，抵達新的星球。</p></div></div>
 <section class="wrap bloom-section bloom-story"><div><p class="bloom-eyebrow">01 / THE STORY</p><h2>故事</h2><p>失去家園的一萬兩千人，載著他們的船只有一艘——移民母艦索拉斯號。</p><p>淨化艦隊會一路追到底。身為艦長的你，將率領母艦與艦隊，啟程尋找市民能夠生活的新星球。</p></div><figure><img src="/games/exiles/img/story_crew.jpg" alt="結局前聚集在艦橋上的七位女主角" width="720" height="1280" loading="lazy"></figure></section>
-<section class="wrap bloom-section"><p class="bloom-eyebrow">02 / HOW TO PLAY</p><h2>遊戲特色</h2><div class="bloom-feature-grid"><article class="bloom-feature"><p class="feature-heading"><span class="feature-symbol" aria-hidden="true">⚔</span><strong>毫無喘息的艦隊戰</strong></p><p>用母艦的武裝，以及戰鬥機、驅逐艦、機動骨架編隊，擋下從四面八方湧來的敵方艦隊。在滿是飛彈與雷射的畫面中，主砲一擊就能扭轉戰局。</p></article><article class="bloom-feature"><p class="feature-heading"><span class="feature-symbol" aria-hidden="true">🗺</span><strong>選擇的路，成為不同的故事</strong></p><p>全9章、超過200場戰鬥。星圖上的航線一分為四，你的選擇將改變遇見的人、面對的敵人，以及故事的結局。</p></article><article class="bloom-feature"><p class="feature-heading"><span class="feature-symbol" aria-hidden="true">👥</span><strong>同行的38位夥伴</strong></p><p>在酒館「最後之錨」招募31名船員與7位女主角。與同一個人相遇越多，契約越深（R → SR → SSR），各職位配置的人選會讓艦隊實力明顯不同。</p></article><article class="bloom-feature"><p class="feature-heading"><span class="feature-symbol" aria-hidden="true">💗</span><strong>在艦內萌芽的故事</strong></p><p>戰鬥結束後到艦內走走吧。居住穹頂、水耕農場、整備廠……一段偶然的對話會改變彼此的距離。七位女主角、隱藏的相遇、度假行星的短暫休息，以及可收集的插圖與服裝。</p></article><article class="bloom-feature"><p class="feature-heading"><span class="feature-symbol" aria-hidden="true">🎙</span><strong>語音與音樂</strong></p><p>主要劇情提供韓語、英語、日語、中文語音。管弦樂原聲帶與三首主題曲陪伴航程，聽過的曲子可在回憶相簿中再次聆聽。</p></article><article class="bloom-feature"><p class="feature-heading"><span class="feature-symbol" aria-hidden="true">🏆</span><strong>永不結束的挑戰</strong></p><p>無限航行排行榜、懷舊街機風格的超高難度射擊6關，以及帶著培養好的艦隊挑戰多周目。</p></article></div></section>
+<section class="wrap bloom-section"><p class="bloom-eyebrow">02 / HOW TO PLAY</p><h2>遊戲特色</h2><div class="bloom-feature-grid"><article class="bloom-feature"><p class="feature-heading"><span class="feature-symbol" aria-hidden="true">⚔</span><strong>毫無喘息的艦隊戰</strong></p><p>用母艦的武裝，以及戰鬥機、驅逐艦、機動骨架編隊，擋下從四面八方湧來的敵方艦隊。在滿是飛彈與雷射的畫面中，主砲一擊就能扭轉戰局。</p></article><article class="bloom-feature"><p class="feature-heading"><span class="feature-symbol" aria-hidden="true">🗺</span><strong>選擇的路，成為不同的故事</strong></p><p>全9章、超過200場戰鬥。星圖上的航線一分為四，你的選擇將改變遇見的人、面對的敵人，以及故事的結局。</p></article><article class="bloom-feature"><p class="feature-heading"><span class="feature-symbol" aria-hidden="true">👥</span><strong>同行的50位夥伴</strong></p><p>在酒館「最後之錨」招募43名船員與7位女主角。與同一個人相遇越多，契約越深（R → SR → SSR），把誰安排到哪個職位（也可跨專業配置），會讓艦隊實力明顯不同。</p></article><article class="bloom-feature"><p class="feature-heading"><span class="feature-symbol" aria-hidden="true">💗</span><strong>在艦內萌芽的故事</strong></p><p>戰鬥結束後到艦內走走吧。居住穹頂、水耕農場、整備廠……一段偶然的對話會改變彼此的距離。七位女主角、隱藏的相遇、度假行星的短暫休息，以及可收集的插圖與服裝。</p></article><article class="bloom-feature"><p class="feature-heading"><span class="feature-symbol" aria-hidden="true">🎙</span><strong>語音與音樂</strong></p><p>主要劇情提供韓語、英語、日語、中文語音。管弦樂原聲帶與三首主題曲陪伴航程，聽過的曲子可在回憶相簿中再次聆聽。</p></article><article class="bloom-feature"><p class="feature-heading"><span class="feature-symbol" aria-hidden="true">🏆</span><strong>永不結束的挑戰</strong></p><p>無限航行排行榜、懷舊街機風格的超高難度射擊6關，以及帶著培養好的艦隊挑戰多周目。</p></article></div></section>
 <section class="wrap bloom-section"><div class="bloom-family"><p class="bloom-eyebrow">03 / FAIR PLAY</p><h2>安心遊玩</h2><ul><li>沒有廣告。</li><li>免註冊，立即開始。不會詢問姓名或電子郵件。</li><li>招募機率可隨時在遊戲內的酒館 → 查看機率確認。</li><li>戰敗後，下一次挑戰的敵人會稍微變弱（重新挑戰補正）。</li><li>韓國分級為15歲以上。</li></ul></div></section>
-<section class="wrap bloom-section"><p class="bloom-eyebrow">04 / GALLERY</p><h2>遊戲圖庫</h2><p class="bloom-gallery-note">實際遊戲畫面・附上宣傳文字的商店圖片（繁體中文介面）。</p><div class="bloom-gallery promo-gallery"><figure><a href="/games/exiles/img/screenshot_zh_1.webp"><img src="/games/exiles/img/screenshot_zh_1.webp" alt="與巨型旗艦決戰 — 主砲一擊扭轉戰局" loading="lazy" width="810" height="1440"></a></figure><figure><a href="/games/exiles/img/screenshot_zh_2.webp"><img src="/games/exiles/img/screenshot_zh_2.webp" alt="毫無喘息的艦隊戰 — 飛彈與雷射佈滿整片天空" loading="lazy" width="810" height="1440"></a></figure><figure><a href="/games/exiles/img/screenshot_zh_3.webp?v=38"><img src="/games/exiles/img/screenshot_zh_3.webp?v=38" alt="招募同行的27位夥伴 — 20名船員・7位女主角" loading="lazy" width="810" height="1440"></a></figure><figure><a href="/games/exiles/img/screenshot_zh_4.webp"><img src="/games/exiles/img/screenshot_zh_4.webp" alt="在艦內萌芽的故事 — 隱藏的相遇與七位女主角" loading="lazy" width="810" height="1440"></a></figure><figure><a href="/games/exiles/img/screenshot_zh_5.webp"><img src="/games/exiles/img/screenshot_zh_5.webp" alt="一分為四的航線 — 你的選擇將改變故事" loading="lazy" width="810" height="1440"></a></figure><figure><a href="/games/exiles/img/screenshot_zh_6.webp"><img src="/games/exiles/img/screenshot_zh_6.webp" alt="駕駛一架戰鬥機突破敵陣 — 懷舊街機風格的射擊關卡" loading="lazy" width="810" height="1440"></a></figure><figure><a href="/games/exiles/img/screenshot_zh_7.webp"><img src="/games/exiles/img/screenshot_zh_7.webp" alt="迫降行星上的戰術戰鬥 — 逐格推進守護艦船" loading="lazy" width="810" height="1440"></a></figure><figure><a href="/games/exiles/img/screenshot_zh_8.webp"><img src="/games/exiles/img/screenshot_zh_8.webp" alt="載著一萬兩千人的最後移民船 — 發展艦船，守護市民" loading="lazy" width="810" height="1440"></a></figure></div></section>
+<section class="wrap bloom-section"><p class="bloom-eyebrow">04 / GALLERY</p><h2>遊戲圖庫</h2><p class="bloom-gallery-note">實際遊戲畫面・附上宣傳文字的商店圖片（繁體中文介面）。</p><div class="bloom-gallery promo-gallery"><figure><a href="/games/exiles/img/screenshot_zh_1.webp"><img src="/games/exiles/img/screenshot_zh_1.webp" alt="與巨型旗艦決戰 — 主砲一擊扭轉戰局" loading="lazy" width="810" height="1440"></a></figure><figure><a href="/games/exiles/img/screenshot_zh_2.webp"><img src="/games/exiles/img/screenshot_zh_2.webp" alt="毫無喘息的艦隊戰 — 飛彈與雷射佈滿整片天空" loading="lazy" width="810" height="1440"></a></figure><figure><a href="/games/exiles/img/screenshot_zh_3.webp?v=50"><img src="/games/exiles/img/screenshot_zh_3.webp?v=50" alt="招募同行的50位夥伴 — 43名船員・7位女主角" loading="lazy" width="810" height="1440"></a></figure><figure><a href="/games/exiles/img/screenshot_zh_4.webp"><img src="/games/exiles/img/screenshot_zh_4.webp" alt="在艦內萌芽的故事 — 隱藏的相遇與七位女主角" loading="lazy" width="810" height="1440"></a></figure><figure><a href="/games/exiles/img/screenshot_zh_5.webp"><img src="/games/exiles/img/screenshot_zh_5.webp" alt="一分為四的航線 — 你的選擇將改變故事" loading="lazy" width="810" height="1440"></a></figure><figure><a href="/games/exiles/img/screenshot_zh_6.webp"><img src="/games/exiles/img/screenshot_zh_6.webp" alt="駕駛一架戰鬥機突破敵陣 — 懷舊街機風格的射擊關卡" loading="lazy" width="810" height="1440"></a></figure><figure><a href="/games/exiles/img/screenshot_zh_7.webp"><img src="/games/exiles/img/screenshot_zh_7.webp" alt="迫降行星上的戰術戰鬥 — 逐格推進守護艦船" loading="lazy" width="810" height="1440"></a></figure><figure><a href="/games/exiles/img/screenshot_zh_8.webp"><img src="/games/exiles/img/screenshot_zh_8.webp" alt="載著一萬兩千人的最後移民船 — 發展艦船，守護市民" loading="lazy" width="810" height="1440"></a></figure></div></section>
 <section class="wrap bloom-section"><div class="bloom-cta"><img class="bloom-icon" src="/games/exiles/img/icon.png" alt="星之流亡者圖示" width="100" height="100" loading="lazy" style="margin:0 auto 22px"><span class="bloom-status">封閉測試中・即將推出</span><h2 style="margin-top:20px">星之流亡者</h2><button class="bloom-play" type="button" disabled aria-disabled="true" data-play-url=""><svg width="25" height="28" viewBox="0 0 25 28" aria-hidden="true" fill="currentColor"><path d="M2 1 24 14 2 27Z"/></svg><span><small>即將推出</small>Google Play</span></button><p class="info">Android (Google Play) · 한국어 / English / 日本語 / 繁體中文</p><p class="info">免費遊玩・含應用程式內購買（類星體・禮包）</p><div class="bloom-links"><a href="/privacy/exiles/?lang=zh-TW">隱私權政策</a><a href="mailto:contact@ehnygames.com">聯絡我們 · contact@ehnygames.com</a></div></div></section></div>
 </main><footer class="site-footer"><div class="wrap footer-grid"><div class="footer-brand"><a class="brand footer-home" data-site-to="home" href="/"><img src="/assets/ehny_horizontal_on_dark.png" alt="EHNY Games" width="170" height="50"></a><p data-site-label="tagline">작은 세계에서 시작하는 큰 모험.</p></div><div class="footer-links"><h2 data-site-label="games">게임</h2><a class="footer-bolbol" data-site-to="bolbol" href="/games/bolbolland/?lang=ko">BolBol Land</a><a class="footer-stories" data-site-to="bloom" href="/games/stories-bloom/?lang=ko" data-site-label="bloom">이야기가 피는 왕국</a><a class="footer-exiles" data-site-to="exiles" href="/games/exiles/?lang=ko" data-site-label="exiles">별의 망명자들</a><a class="footer-games" data-site-to="games" href="/#games" data-site-label="all">게임 목록</a></div><div class="footer-links"><h2 data-site-label="help">지원 및 개인정보</h2><a data-site-to="support" href="/support/" data-site-label="support">지원</a><a class="policies-nav" data-site-to="policies" href="/privacy/" data-site-label="policies">개인정보처리방침</a><a href="mailto:contact@ehnygames.com"><span data-site-label="contact">문의</span> · contact@ehnygames.com</a></div></div><div class="wrap footer-bottom"><span>© 2026 EHNY Games</span><span>INDEPENDENT GAME STUDIO</span></div></footer><script id="game-page-data" type="application/json">{"ko":{"title":"별의 망명자들 · EHNY Games","description":"1만 2천 명을 태운 마지막 이민선. 함대를 이끌고 추격을 뿌리쳐 새 별에 닿아라!","image":"https://ehnygames.com/games/exiles/img/og_ko.jpg","htmlLang":"ko","home":"/","nav":{"games":"게임","support":"지원","all":"게임 목록","privacy":"개인정보처리방침","policies":"게임별 개인정보처리방침","contact":"문의","gallery":"게임 갤러리","note":"실제 게임 화면 · 홍보 문구를 더한 스토어 이미지(이 언어 화면).","soon":"곧 출시","icon":"별의 망명자들 아이콘","storyArt":"엔딩 직전 함교에 모인 일곱 히로인"}},"en":{"title":"Twelve Thousand Lights · EHNY Games","description":"12,000 refugees. One last ship. Lead the fleet, outrun the purge, find a home.","image":"https://ehnygames.com/games/exiles/img/og_en.jpg","htmlLang":"en","home":"/en/","nav":{"games":"Games","support":"Support","all":"All games","privacy":"Privacy Policy","policies":"Game privacy policies","contact":"Contact","gallery":"Game Gallery","note":"Actual gameplay · Store images with promotional captions (English interface).","soon":"Coming soon","icon":"Twelve Thousand Lights icon","storyArt":"Seven heroines gathered on the bridge before the ending"}},"ja":{"title":"星の亡命者たち · EHNY Games","description":"1万2千人を乗せた最後の移民船。艦隊を率いて追撃を振り切り、新たな星を目指せ!","image":"https://ehnygames.com/games/exiles/img/og_ja.jpg","htmlLang":"ja","home":"/ja/","nav":{"games":"ゲーム","support":"サポート","all":"ゲーム一覧","privacy":"プライバシーポリシー","policies":"ゲームのプライバシーポリシー","contact":"お問い合わせ","gallery":"ゲームギャラリー","note":"実際のゲーム画面・紹介文を添えたストア画像(日本語画面)。","soon":"まもなく配信","icon":"星の亡命者たちのアイコン","storyArt":"エンディング直前、ブリッジに集まった7人のヒロイン"}},"zh-TW":{"title":"星之流亡者 · EHNY Games","description":"載著一萬兩千人的最後一艘移民船。率領艦隊甩開追擊，抵達新的星球！","image":"https://ehnygames.com/games/exiles/img/og_zh.jpg","htmlLang":"zh-Hant-TW","home":"/zh-tw/","nav":{"games":"遊戲","support":"支援","all":"遊戲列表","privacy":"隱私權政策","policies":"各遊戲隱私權政策","contact":"聯絡我們","gallery":"遊戲圖庫","note":"實際遊戲畫面・附上宣傳文字的商店圖片（繁體中文介面）。","soon":"即將推出","icon":"星之流亡者圖示","storyArt":"結局前聚集在艦橋上的七位女主角"}}}</script></body></html>
